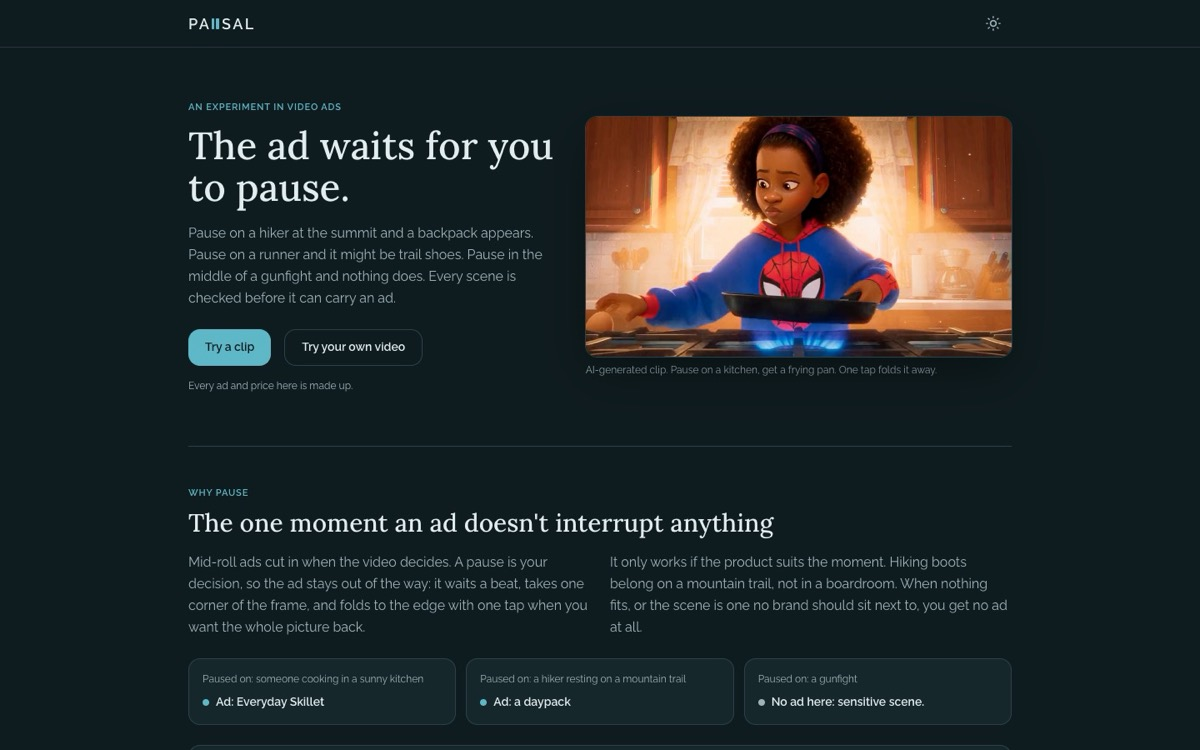
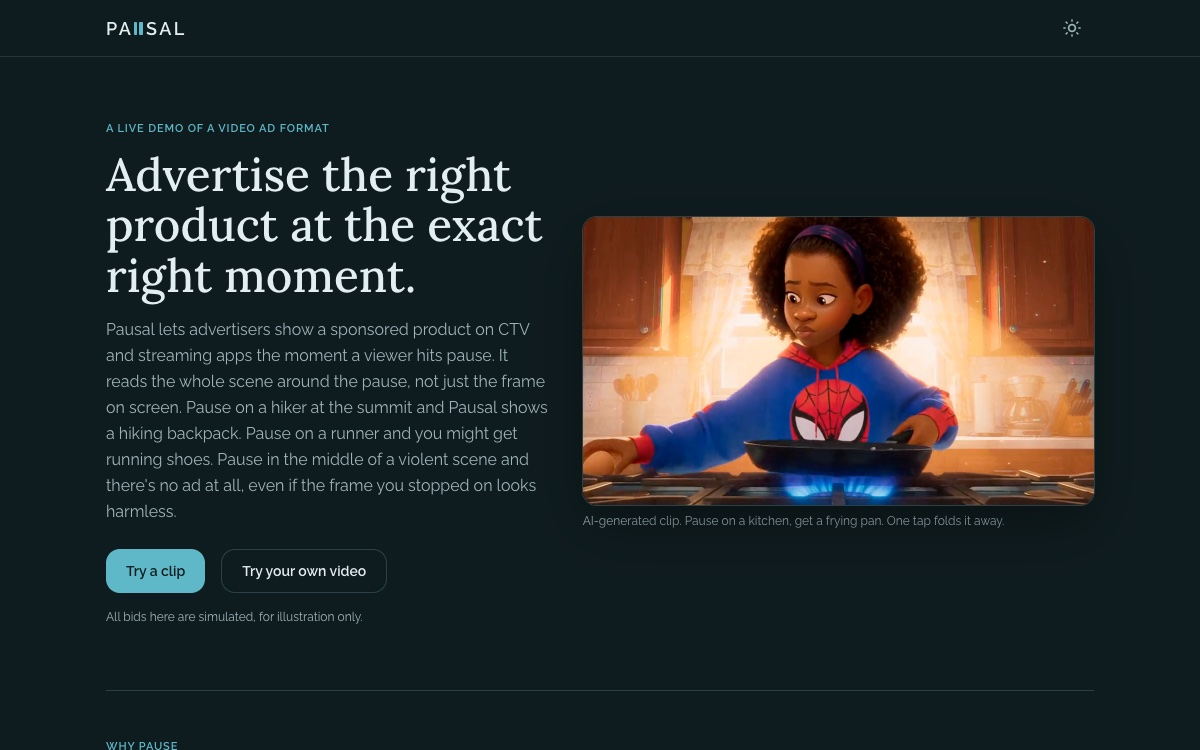
Update Pausal screenshot to current demo

diff --git a/index.html b/index.html
@@ -148,7 +148,7 @@
     <h2 class="heading"><span class="num">03</span>Some things I've built</h2>
 
     <div class="project">
-      <a class="img" href="https://bavafa.github.io/pausal/" aria-label="Open the Pausal demo"><img src="img/pausal.jpg" alt="Pausal home page: the ad waits for you to pause, beside a paused kitchen scene" loading="lazy"></a>
+      <a class="img" href="https://bavafa.github.io/pausal/" aria-label="Open the Pausal demo"><img src="img/pausal.jpg?v=2" alt="Pausal home page: advertise the right product at the exact right moment, beside a kitchen scene where a pause shows a frying pan" loading="lazy"></a>
       <div class="info">
         <p class="overline">Side project · experiment in video ads</p>
         <h3>Pausal</h3>
